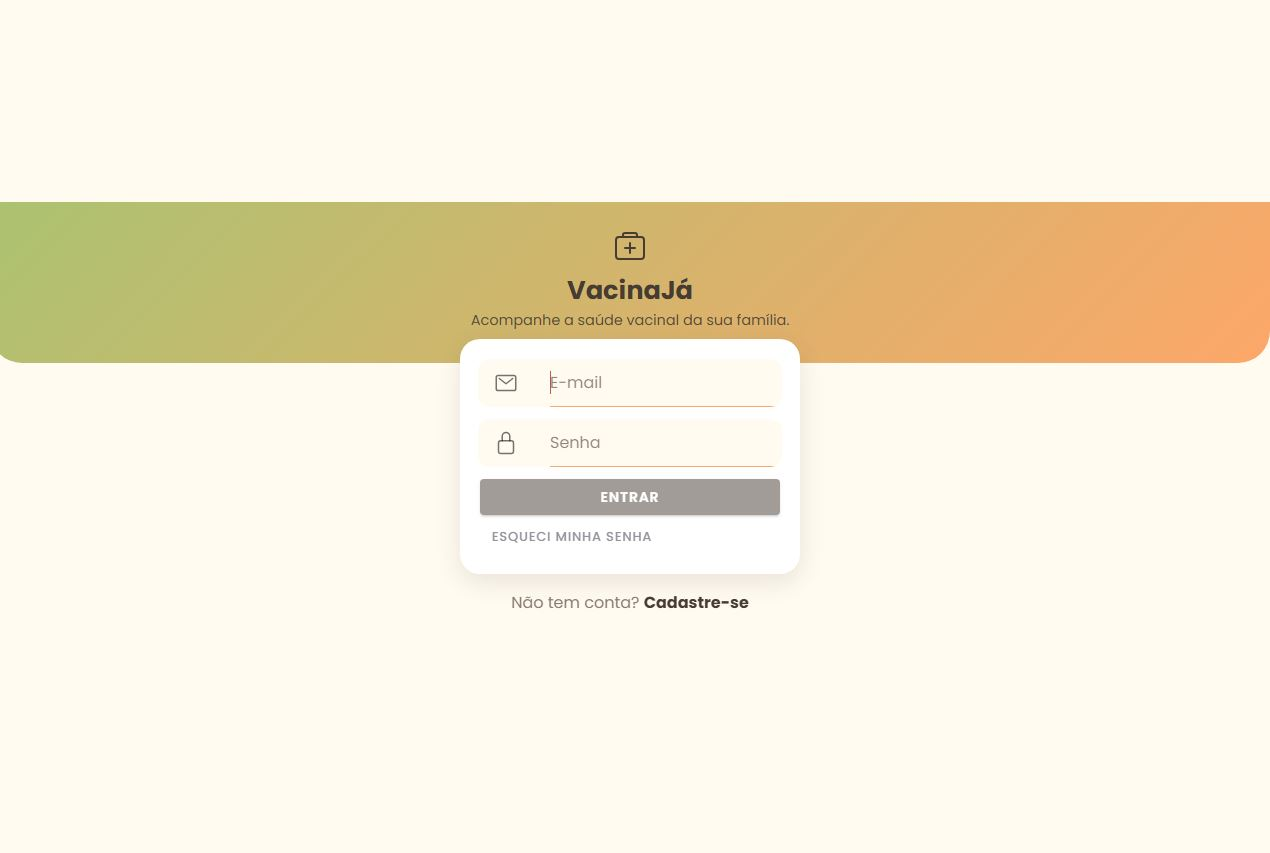
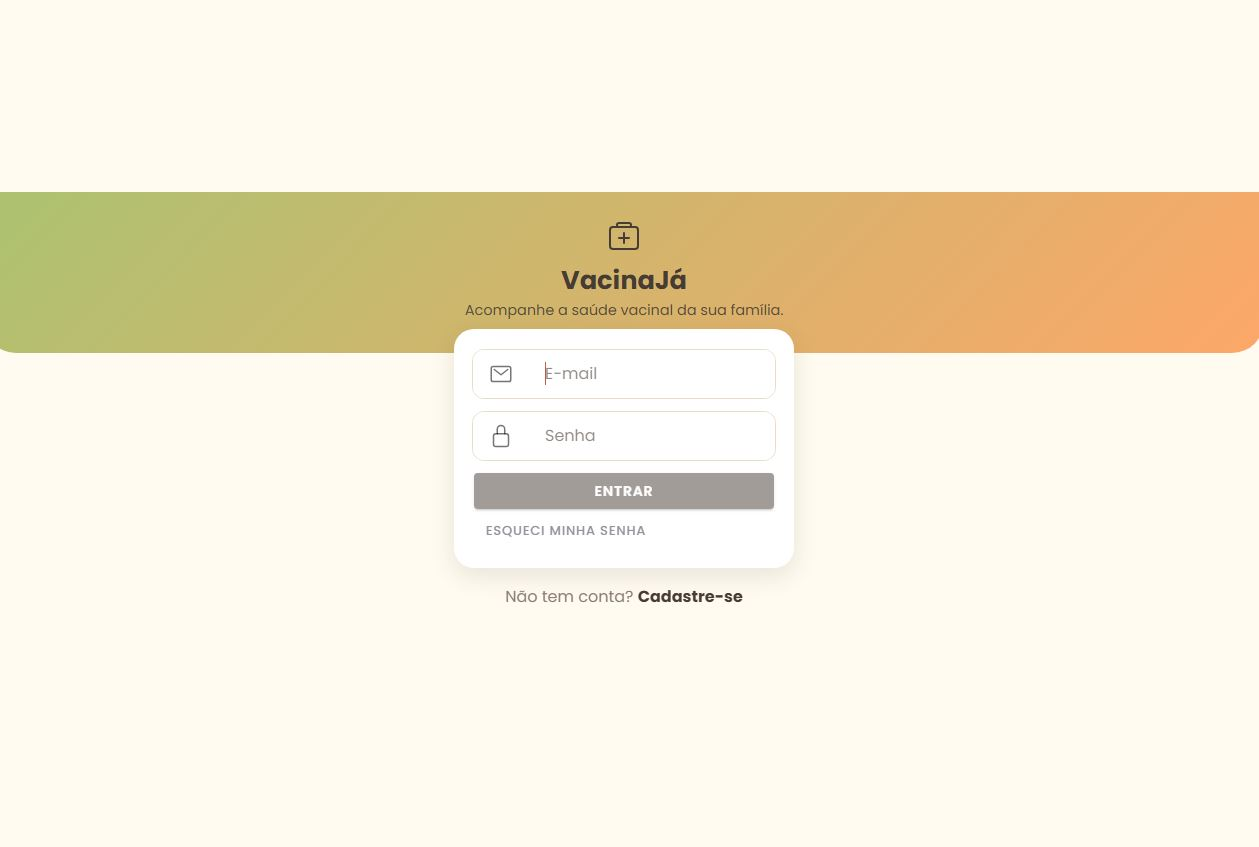
Atualiza screenshots e links de deploy no README

diff --git a/README.md b/README.md
@@ -8,11 +8,19 @@ Plataforma de acompanhamento da jornada de vacinação infantil, desenvolvida co
 
 | Login | Minhas Crianças |
 |---|---|
-| ![Tela de login](screenshots/login.jpg) | ![Lista de crianças](screenshots/criancas.jpg) |
+| ![Tela de login](screenshots/login.jpg) | ![Lista de crianças com saudação](screenshots/criancas.jpg) |
 
 | Histórico vacinal | Campanhas |
 |---|---|
 | ![Histórico vacinal de uma criança](screenshots/historico-vacinal.jpg) | ![Campanhas de vacinação](screenshots/campanhas.jpg) |
+
+| Adicionar criança | Adicionar vacina |
+|---|---|
+| ![Formulário de nova criança](screenshots/adicionar-crianca.jpg) | ![Seleção de vacina do catálogo](screenshots/adicionar-vacina.jpg) |
+
+| Editar/excluir criança | Editar/excluir dose |
+|---|---|
+| ![Menu de opções da criança](screenshots/menu-criancas.jpg) | ![Menu de opções da dose](screenshots/menu-vacinas.jpg) |
 
 
 ## 🎯 Problema e proposta de solução
@@ -80,11 +88,11 @@ Como a aplicação trata dados de saúde de crianças (dados sensíveis, LGPD), 
 
 ## 🚀 Deploy
 
-🔗 Aplicação publicada: [https://vacina-app-murex.vercel.app/]
+🔗 **Aplicação publicada:**
+- Vercel: [vacina-app-murex.vercel.app](https://vacina-app-murex.vercel.app/)
+- Firebase Hosting: [vacina-app-2c83b.web.app](https://vacina-app-2c83b.web.app/)
 
-[https://vacina-app-2c83b.web.app]
-
-O projeto pode ser publicado tanto na Vercel quanto no Firebase Hosting.
+O projeto pode ser publicado tanto na **Vercel** quanto no **Firebase Hosting**.
 
 ### Opção A — Vercel
 O projeto já inclui `vercel.json`, configurado com: